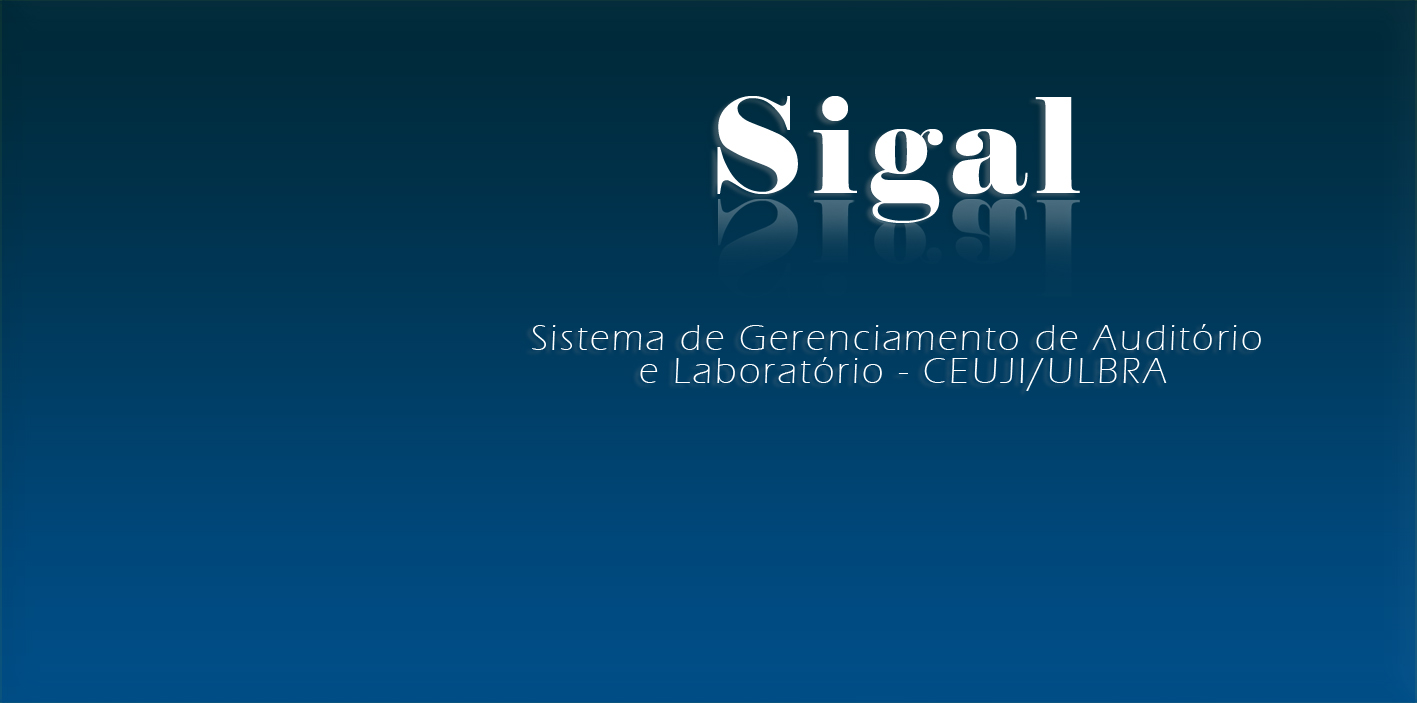
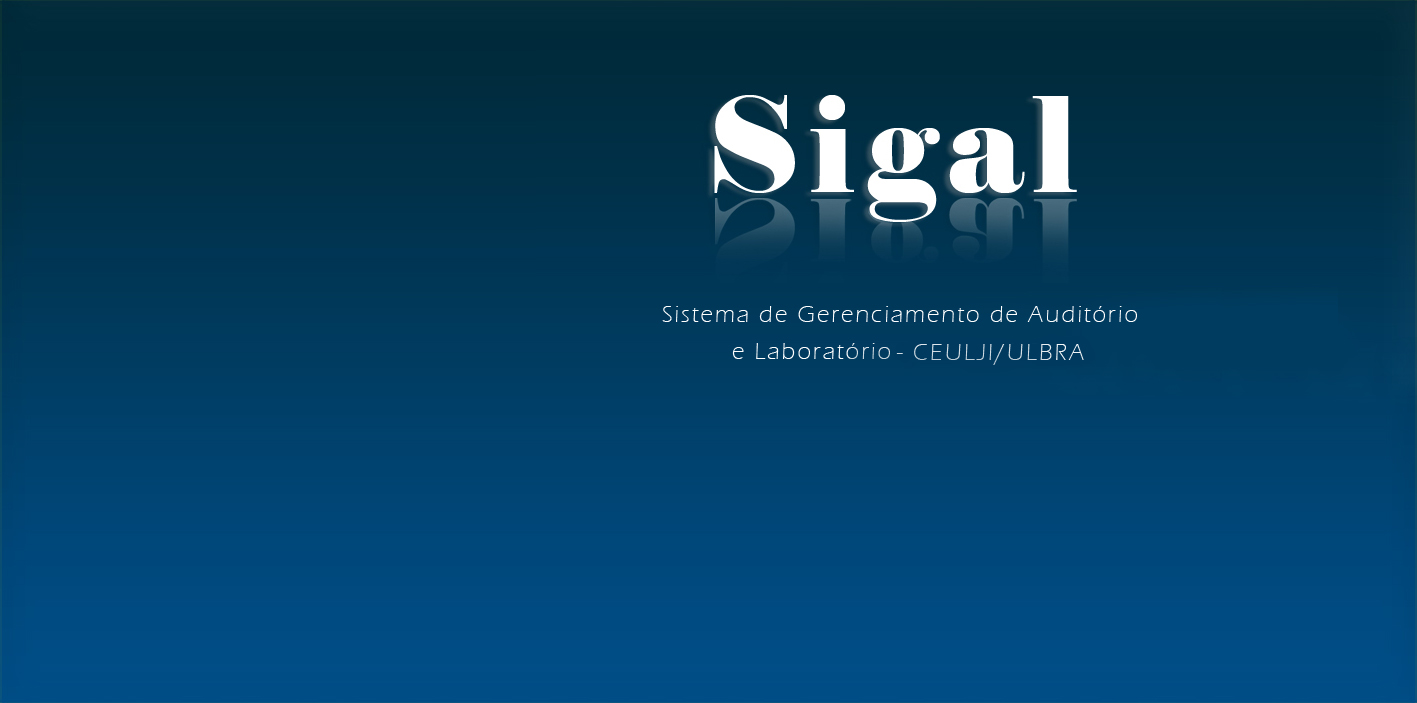
mudancas de interface

Changed region(s): [[0.4968, 0.1195, 0.7763, 0.3286], [0.3726, 0.4481, 0.9005, 0.5377]]

diff --git a/public/css/app.css b/public/css/app.css
@@ -2099,10 +2099,10 @@ th {
   border-bottom-width: 2px;
 }
 .table-striped > tbody > tr:nth-child(odd) {
-  background-color: #f9f9f9;
+  background-color: #f3f3f3;
 }
 .table-hover > tbody > tr:hover {
-  background-color: #f5f5f5;
+  background-color: #c1d3d4;
 }
 table col[class*="col-"] {
   position: static;
@@ -6408,4 +6408,99 @@ fieldset[disabled] .btn-confirm.active {
 .open > .dropdown-toggle.btn-voltar404 {
   color: #fff;
   border-color: #ffffff;
+}
+
+
+.btn-editar {
+  color: #ffffff;
+  background-color: #8b8e94;
+  border-color: #8b8e94;
+}
+.btn-editar:hover,
+.btn-editar:focus,
+.btn-editar.focus,
+.btn-editar:active,
+.btn-editar.active,
+.open > .dropdown-toggle.btn-editar {
+  color: #ffffff;
+  background-color: #6a6d73;
+  border-color: #6a6d73;
+}
+.btn-editar:active,
+.btn-editar.active,
+.open > .dropdown-toggle.btn-editar {
+  background-image: none;
+}
+.btn-editar.disabled,
+.btn-editar[disabled],
+fieldset[disabled] .btn-editar,
+.btn-editar.disabled:hover,
+.btn-editar[disabled]:hover,
+fieldset[disabled] .btn-editar:hover,
+.btn-editar.disabled:focus,
+.btn-warning[disabled]:focus,
+fieldset[disabled] .btn-editar:focus,
+.btn-editar.disabled.focus,
+.btn-warning[disabled].focus,
+fieldset[disabled] .btn-editar.focus,
+.btn-editar.disabled:active,
+.btn-editar[disabled]:active,
+fieldset[disabled] .btn-editar:active,
+.btn-editar.disabled.active,
+.btn-editar[disabled].active,
+fieldset[disabled] .btn-editar.active {
+  background-color: #617784;
+  border-color: #617784;
+}
+.btn-editar .badge {
+  color: #617784;
+  background-color: #ffffff;
+}
+
+
+
+.btn-deletar {
+  color: #ffffff;
+  background-color: #c35956;
+  border-color: #c35956;
+}
+.btn-deletar:hover,
+.btn-deletar:focus,
+.btn-deletar.focus,
+.btn-deletar:active,
+.btn-deletar.active,
+.open > .dropdown-toggle.btn-deletar {
+  color: #ffffff;
+  background-color: #ba392d;
+  border-color: #ba392d;
+}
+.btn-deletar:active,
+.btn-deletar.active,
+.open > .dropdown-toggle.btn-deletar {
+  background-image: none;
+}
+.btn-deletar.disabled,
+.btn-deletar[disabled],
+fieldset[disabled] .btn-deletar,
+.btn-deletar.disabled:hover,
+.btn-deletar[disabled]:hover,
+fieldset[disabled] .btn-deletar:hover,
+.btn-deletar.disabled:focus,
+.btn-deletar[disabled]:focus,
+fieldset[disabled] .btn-deletar:focus,
+.btn-deletar.disabled.focus,
+.btn-deletar[disabled].focus,
+fieldset[disabled] .btn-deletar.focus,
+.btn-deletar.disabled:active,
+.btn-deletar[disabled]:active,
+fieldset[disabled] .btn-deletar:active,
+.btn-deletar.disabled.active,
+.btn-deletar[disabled].active,
+fieldset[disabled] .btn-deletar.active {
+  background-color: #ba392d;
+  border-color: #ba392d;
+}
+.btn-deletar .badge {
+  color: #ba392d;
+  background-color: #ffffff;
 }

diff --git a/resources/views/desenvolvedores/index.blade.php b/resources/views/desenvolvedores/index.blade.php
@@ -1,7 +1,7 @@
 <!DOCTYPE html>
-<html lang="pt" xmlns="http://www.w3.org/1999/html">
+<html lang="pt-br" xmlns="http://www.w3.org/1999/html">
 <head>
-    <meta http-equiv="content-type" content="text/html; charset=UTF-8">
+    <meta http-equiv="Content-Type" content="text/html; charset=utf-8" />
     <meta http-equiv="X-UA-Compatible" content="IE=edge">
     <meta name="viewport" content="width=device-width, initial-scale=1">
     <title>SIGAL</title>
@@ -91,14 +91,14 @@
         <div class="back" align="center">
             <div style='position:relative; top:0px; left:0px;'>
                 <img src=/assets/img/desenvback2.jpg border=0>
-                <div style='position:absolute; top:125px; left:60px;'>
-                    <a href = "https://www.facebook.com/jacksoncarelli"> <img src=/assets/img/icones/face.png style="width: 30px"></a>
+                <div style='position:absolute; top:60px; left:40px;'>
+                    <a href = "https://www.facebook.com/jefferson.gouveia.0?fref=ts"> <img src=/assets/img/icones/face.png style="width: 40px"></a>
                 </div>
-                <div style='position:absolute; top:125px; left:110px;'>
-                    <a href = "jacksoncarelli@gmail.com"> <img  src=/assets/img/icones/gmail.png style="width: 30px">
+                <div style='position:absolute; top:60px; left:100px;'>
+                    <a href = "#"> <img  src=/assets/img/icones/gmail.png style="width: 40px">
                 </div>
-                <div style='position:absolute; top:125px; left:160px;'>
-                    <a href = "https://www.linkedin.com/pub/jackson-carelli/104/92/417"> <img src=/assets/img/icones/liked.png style="width: 30px"><a>
+                <div style='position:absolute; top:60px; left:160px;'>
+                    <a href = "https://br.linkedin.com/pub/jefferson-gouveia/a7/63a/a73"> <img src=/assets/img/icones/liked.png style="width: 40px"><a>
                 </div>
 
             </div>
@@ -116,14 +116,14 @@
         <div class="back" align="center">
             <div style='position:relative; top:0px; left:0px;'>
                 <img src=/assets/img/desenvback1.jpg border=0>
-                <div style='position:absolute; top:125px; left:60px;'>
-                    <a href = "https://www.facebook.com/jacksoncarelli"> <img src=/assets/img/icones/face.png style="width: 30px"></a>
+                <div style='position:absolute; top:60px; left:40px;'>
+                    <a href = "https://www.facebook.com/jacksoncarelli"> <img src=/assets/img/icones/face.png style="width: 40px"></a>
                 </div>
-                <div style='position:absolute; top:125px; left:110px;'>
-                    <a href = "jacksoncarelli@gmail.com"> <img  src=/assets/img/icones/gmail.png style="width: 30px">
+                <div style='position:absolute; top:60px; left:100px;'>
+                    <a href = "#"> <img  src=/assets/img/icones/gmail.png style="width: 40px">
                 </div>
-                <div style='position:absolute; top:125px; left:160px;'>
-                    <a href = "https://www.linkedin.com/pub/jackson-carelli/104/92/417"> <img src=/assets/img/icones/liked.png style="width: 30px">
+                <div style='position:absolute; top:60px; left:160px;'>
+                    <a href = "https://www.linkedin.com/pub/jackson-carelli/104/92/417"> <img src=/assets/img/icones/liked.png style="width: 40px">
                 </div>
             </div>
         </div>

diff --git a/resources/views/professores/index.blade.php b/resources/views/professores/index.blade.php
@@ -41,11 +41,11 @@
                                         <td>{{ $professor->email }}</td>
                                         <td>{{ $professor->fone }}</td>
                                         <td align="center">
-                                            <button class="btn btn-warning btn-sm" data-toggle="modal"
+                                            <button class="btn btn-editar btn-sm" data-toggle="modal"
                                                     onclick="editModal({{ $professor->id }})">
                                                 <i class="glyphicon glyphicon-pencil"></i> Editar
                                             </button>
-                                            <button class="btn btn-danger btn-sm" type="button" data-toggle="modal" data-target="#confirmDelete">
+                                            <button class="btn btn-deletar btn-sm" type="button" data-toggle="modal" data-target="#confirmDelete">
                                                 <i class="glyphicon glyphicon-trash"></i> Deletar
                                             </button>
                                         </td>

diff --git a/resources/views/cursos/index.blade.php b/resources/views/cursos/index.blade.php
@@ -36,11 +36,11 @@
                                         <td>{{ $curso->coordenador }}</td>
                                         <td>{{ $curso->fone }}</td>
                                         <td align="center">
-                                            <button class="btn btn-warning btn-sm" data-toggle="modal"
+                                            <button class="btn btn-editar btn-sm" data-toggle="modal"
                                                     onclick="editModal({{ $curso->id }})">
                                                 <i class="glyphicon glyphicon-pencil"></i>  Editar
                                             </button>
-                                            <button class="btn btn-danger btn-sm" type="button" data-toggle="modal" data-target="#confirmDelete">
+                                            <button class="btn btn-deletar btn-sm" type="button" data-toggle="modal" data-target="#confirmDelete">
                                                 <i class="glyphicon glyphicon-trash"></i> Deletar
                                             </button>
                                         </td>

diff --git a/resources/views/salas/index.blade.php b/resources/views/salas/index.blade.php
@@ -47,11 +47,11 @@
                                             <td>Nao</td>
                                         @endif
                                         <td align="center">
-                                            <button class="btn btn-warning  btn-sm" data-toggle="modal"
+                                            <button class="btn btn-editar  btn-sm" data-toggle="modal"
                                                     onclick="editModal({{ $sala->id }})">
                                                 <i class="glyphicon glyphicon-pencil"></i>   Editar
                                             </button>
-                                            <button class="btn  btn-danger  btn-sm" type="button" data-toggle="modal" data-target="#confirmDelete">
+                                            <button class="btn  btn-deletar  btn-sm" type="button" data-toggle="modal" data-target="#confirmDelete">
                                                 <i class="glyphicon glyphicon-trash"></i> Deletar
                                             </button>
                                         </td>

diff --git a/resources/views/layouts/template.blade.php b/resources/views/layouts/template.blade.php
@@ -1,7 +1,7 @@
 <!DOCTYPE html>
-<html lang="pt" xmlns="http://www.w3.org/1999/html">
+<html lang="pt-br" xmlns="http://www.w3.org/1999/html">
 <head>
-	<meta http-equiv="content-type" content="text/html; charset=UTF-8">
+	<meta http-equiv="Content-Type" content="text/html; charset=utf-8" />
 	<meta http-equiv="X-UA-Compatible" content="IE=edge">
 	<meta name="viewport" content="width=device-width, initial-scale=1">
 	<title>SIGAL</title>
@@ -85,7 +85,7 @@
 	<div class="rodape">
 
 		<div class="container" >
-			<p class ="navbar-text navbar-right">Sistema de Gerenciamento Auditórios e Laboratórios - CEUJI/ULBRA </p>
+			<p class ="navbar-text navbar-right">Sistema de Gerenciamento Auditórios e Laboratórios - CEULJI/ULBRA </p>
 
 			<div  class ="navbar-text navbar-left"</div><span class="glyphicon glyphicon-copyright-mark"></span> &nbspCopyright 2015 -<a href="{{ url('/desenvolvedores') }}"> <span style="color: #a7abab" >Desenvolvedores</a></span>
 

diff --git a/resources/views/professores/delete_confirm.blade.php b/resources/views/professores/delete_confirm.blade.php
@@ -12,7 +12,7 @@
             <div class="modal-footer">
                 <button type="button" class="btn btn-default" data-dismiss="modal">Cancelar</button>
                 {!! Form::open(array('style' => 'display: inline-block;', 'method' => 'DELETE', 'route' => array('professores.destroy', $professor->id))) !!}
-                {!! Form::submit('Deletar', array('class' => 'btn btn-danger')) !!}
+                {!! Form::submit('Deletar', array('class' => 'btn btn-deletar')) !!}
                 {!! Form::close() !!}
             </div>
         </div>

diff --git a/resources/views/cursos/delete_confirm.blade.php b/resources/views/cursos/delete_confirm.blade.php
@@ -12,7 +12,7 @@
             <div class="modal-footer">
                 <button type="button" class="btn btn-default" data-dismiss="modal">Cancelar</button>
                 {!! Form::open(array('style' => 'display: inline-block;', 'method' => 'DELETE', 'route' => array('cursos.destroy', $curso->id))) !!}
-                {!! Form::submit('Deletar', array('class' => 'btn btn-danger')) !!}
+                {!! Form::submit('Deletar', array('class' => 'btn btn-deletar')) !!}
                 {!! Form::close() !!}
             </div>
         </div>

diff --git a/resources/views/salas/delete_confirm.blade.php b/resources/views/salas/delete_confirm.blade.php
@@ -12,7 +12,7 @@
             <div class="modal-footer">
                 <button type="button" class="btn btn-default" data-dismiss="modal">Cancelar</button>
                 {!! Form::open(array('style' => 'display: inline-block;', 'method' => 'DELETE', 'route' => array('salas.destroy', $sala->id))) !!}
-                {!! Form::submit('Deletar', array('class' => 'btn btn-danger')) !!}
+                {!! Form::submit('Deletar', array('class' => 'btn btn-deletar')) !!}
                 {!! Form::close() !!}
             </div>
         </div>

diff --git a/resources/views/professores/edit.blade.php b/resources/views/professores/edit.blade.php
@@ -13,7 +13,7 @@
                 <div class="row">
                     <div class="col-md-10 col-md-offset-2">
                         @if ($errors->any())
-                            <div class="alert alert-danger">
+                            <div class="alert alert-deletar">
                                 <ul>
                                     {!! implode('', $errors->all('<li class="error">:message</li>')) !!}
                                 </ul>

diff --git a/resources/views/layouts/templatelogin.blade.php b/resources/views/layouts/templatelogin.blade.php
@@ -1,7 +1,7 @@
 <!DOCTYPE html>
-<html lang="en">
-<head>
-	<meta http-equiv="content-type" content="text/html; charset=UTF-8">
+	<html lang="pt-br">
+	<head>
+		<meta http-equiv="Content-Type" content="text/html; charset=utf8_encode" />
 	<meta http-equiv="X-UA-Compatible" content="IE=edge">
 	<meta name="viewport" content="width=device-width, initial-scale=1">
 	<title>SIGAL</title>

diff --git a/resources/views/auth/login.blade.php b/resources/views/auth/login.blade.php
@@ -12,11 +12,8 @@
 			}
 
 		</style>
-
+</head>
 	<body
-
-
-
 	<br>
 	<br>
 	<br>
@@ -82,4 +79,5 @@
 	</div>
 </div>
 	</body>
+
 @endsection
